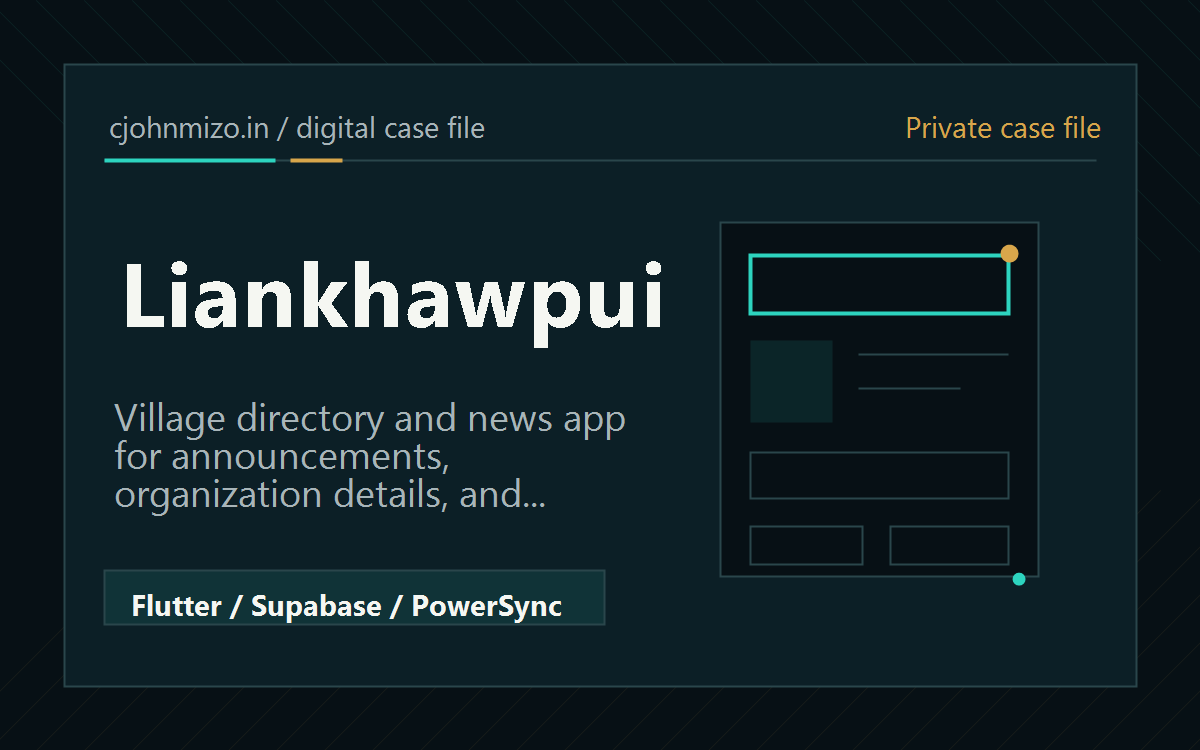
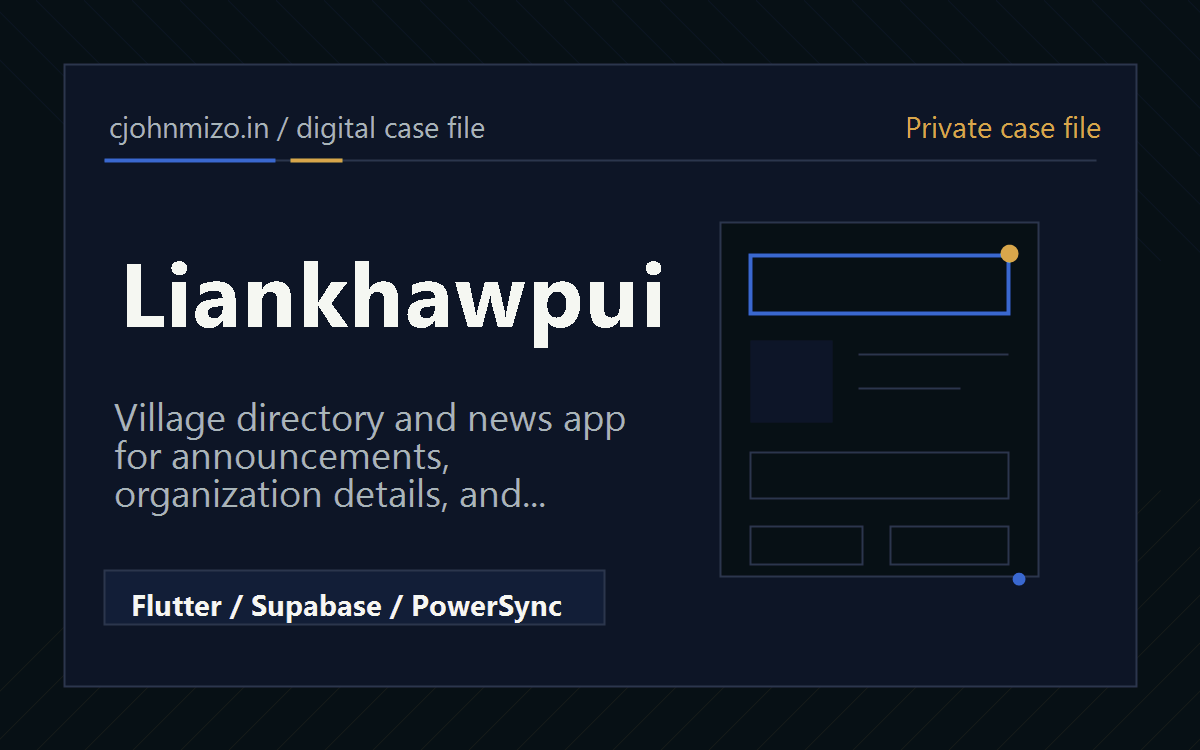
Switch portfolio palette to sapphire blue

Changed region(s): [[0.6167, 0.3373, 0.8633, 0.4293], [0.0925, 0.184, 0.2158, 0.2147], [0.8325, 0.7667, 0.8633, 0.7973]]

diff --git a/src/app/globals.css b/src/app/globals.css
@@ -24,21 +24,21 @@
 }
 
 :root {
-  --background: #071015;
+  --background: #070b12;
   --foreground: #f5f7f2;
-  --card: rgba(13, 28, 34, 0.84);
+  --card: rgba(13, 21, 32, 0.84);
   --card-foreground: #f5f7f2;
-  --popover: rgba(9, 19, 25, 0.98);
+  --popover: rgba(9, 14, 23, 0.98);
   --popover-foreground: #f5f7f2;
-  --primary: #2dd4bf;
-  --primary-foreground: #041311;
+  --primary: #7aa7ff;
+  --primary-foreground: #07101f;
   --secondary: #d8a64b;
   --secondary-foreground: #1b1205;
   --muted: rgba(203, 213, 225, 0.1);
-  --muted-foreground: #a8b5b9;
-  --border: rgba(180, 204, 208, 0.18);
-  --input: rgba(8, 20, 26, 0.74);
-  --ring: rgba(45, 212, 191, 0.5);
+  --muted-foreground: #adb8c7;
+  --border: rgba(174, 190, 210, 0.18);
+  --input: rgba(8, 14, 24, 0.74);
+  --ring: rgba(122, 167, 255, 0.5);
 }
 
 * {
@@ -53,7 +53,7 @@ body {
   background:
     radial-gradient(
       circle at 10% 4%,
-      rgba(45, 212, 191, 0.16),
+      rgba(122, 167, 255, 0.15),
       transparent 34rem
     ),
     radial-gradient(
@@ -61,7 +61,7 @@ body {
       rgba(216, 166, 75, 0.12),
       transparent 30rem
     ),
-    linear-gradient(180deg, #071015 0%, #0a171d 42%, #071015 100%);
+    linear-gradient(180deg, #070b12 0%, #0b111b 42%, #070b12 100%);
   color: var(--foreground);
   text-rendering: optimizeLegibility;
 }
@@ -73,7 +73,7 @@ body::before {
   pointer-events: none;
   content: "";
   background-image:
-    linear-gradient(120deg, rgba(45, 212, 191, 0.06) 1px, transparent 1px),
+    linear-gradient(120deg, rgba(122, 167, 255, 0.06) 1px, transparent 1px),
     linear-gradient(60deg, rgba(216, 166, 75, 0.06) 1px, transparent 1px);
   background-size: 84px 84px;
   mask-image: linear-gradient(180deg, rgba(0, 0, 0, 0.82), transparent 78%);
@@ -101,7 +101,7 @@ select {
 }
 
 ::selection {
-  background: rgba(45, 212, 191, 0.24);
+  background: rgba(122, 167, 255, 0.24);
   color: #ffffff;
 }
 
@@ -110,16 +110,16 @@ select {
 }
 
 ::-webkit-scrollbar-track {
-  background: #071015;
+  background: #070b12;
 }
 
 ::-webkit-scrollbar-thumb {
   background: linear-gradient(
     180deg,
-    rgba(45, 212, 191, 0.82),
+    rgba(122, 167, 255, 0.82),
     rgba(216, 166, 75, 0.72)
   );
-  border: 3px solid #071015;
+  border: 3px solid #070b12;
   border-radius: 999px;
 }
 
@@ -138,8 +138,8 @@ select {
     overflow: hidden;
     background: linear-gradient(
       145deg,
-      rgba(15, 38, 45, 0.86),
-      rgba(7, 16, 21, 0.72)
+      rgba(15, 27, 42, 0.86),
+      rgba(7, 11, 18, 0.72)
     );
     border: 1px solid var(--border);
     box-shadow:
@@ -153,8 +153,8 @@ select {
     overflow: hidden;
     background: linear-gradient(
       155deg,
-      rgba(13, 28, 34, 0.9),
-      rgba(8, 19, 24, 0.72)
+      rgba(13, 21, 32, 0.9),
+      rgba(8, 14, 24, 0.72)
     );
     border: 1px solid var(--border);
     box-shadow: 0 18px 54px rgba(0, 0, 0, 0.24);
@@ -174,7 +174,7 @@ select {
       135deg,
       rgba(255, 255, 255, 0.14),
       transparent 38%,
-      rgba(45, 212, 191, 0.08)
+      rgba(122, 167, 255, 0.08)
     );
     mix-blend-mode: screen;
   }
@@ -197,7 +197,7 @@ select {
     transform: translateY(-2px);
     box-shadow:
       0 24px 62px rgba(0, 0, 0, 0.36),
-      0 0 0 1px rgba(45, 212, 191, 0.18) inset;
+      0 0 0 1px rgba(122, 167, 255, 0.18) inset;
   }
 
   .system-visual {
@@ -226,8 +226,8 @@ select {
 
   .mizo-pattern {
     background-image:
-      linear-gradient(135deg, rgba(45, 212, 191, 0.12) 25%, transparent 25%),
-      linear-gradient(225deg, rgba(45, 212, 191, 0.12) 25%, transparent 25%),
+      linear-gradient(135deg, rgba(122, 167, 255, 0.12) 25%, transparent 25%),
+      linear-gradient(225deg, rgba(122, 167, 255, 0.12) 25%, transparent 25%),
       linear-gradient(45deg, rgba(216, 166, 75, 0.16) 25%, transparent 25%),
       linear-gradient(315deg, rgba(216, 166, 75, 0.16) 25%, transparent 25%);
     background-position:

diff --git a/src/app/opengraph-image.tsx b/src/app/opengraph-image.tsx
@@ -18,7 +18,7 @@ export default function OpenGraphImage() {
         justifyContent: "space-between",
         padding: 64,
         background:
-          "radial-gradient(circle at 12% 8%, rgba(45,212,191,0.32), transparent 34%), radial-gradient(circle at 88% 20%, rgba(216,166,75,0.24), transparent 28%), linear-gradient(135deg, #071015 0%, #0d2027 54%, #071015 100%)",
+          "radial-gradient(circle at 12% 8%, rgba(122,167,255,0.32), transparent 34%), radial-gradient(circle at 88% 20%, rgba(216,166,75,0.24), transparent 28%), linear-gradient(135deg, #070b12 0%, #101827 54%, #070b12 100%)",
         color: "#f5f7f2",
         border: "1px solid rgba(180,204,208,0.24)",
       }}
@@ -30,7 +30,7 @@ export default function OpenGraphImage() {
           alignItems: "center",
           fontSize: 28,
           fontWeight: 700,
-          color: "#2dd4bf",
+          color: "#7aa7ff",
         }}
       >
         <span>C. John Remthang</span>

diff --git a/src/components/ui/button.tsx b/src/components/ui/button.tsx
@@ -10,7 +10,7 @@ const buttonVariants = cva(
     variants: {
       variant: {
         default:
-          "bg-primary px-5 py-3 text-primary-foreground shadow-[0_14px_34px_rgba(45,212,191,0.24)] hover:-translate-y-0.5 hover:bg-teal-300",
+          "bg-primary px-5 py-3 text-primary-foreground shadow-[0_14px_34px_rgba(122,167,255,0.24)] hover:-translate-y-0.5 hover:bg-blue-300",
         outline:
           "border border-border bg-card/70 px-5 py-3 text-foreground backdrop-blur hover:-translate-y-0.5 hover:border-primary/50 hover:bg-muted",
         ghost:

diff --git a/src/components/portfolio/project-card.tsx b/src/components/portfolio/project-card.tsx
@@ -51,7 +51,7 @@ export function ProjectCard({
               {project.category}
             </span>
           </div>
-          <div className="pointer-events-none absolute inset-0 bg-[linear-gradient(120deg,rgba(255,255,255,0.14),transparent_34%,rgba(45,212,191,0.08)_72%,transparent)]" />
+          <div className="pointer-events-none absolute inset-0 bg-[linear-gradient(120deg,rgba(255,255,255,0.14),transparent_34%,rgba(122,167,255,0.08)_72%,transparent)]" />
         </div>
       </div>
       <CardContent className="flex flex-1 flex-col gap-5 p-5">

diff --git a/src/lib/portfolio/seeds.ts b/src/lib/portfolio/seeds.ts
@@ -47,7 +47,7 @@ export const portfolioSeed: PortfolioSnapshot = {
       "Personal portfolio of C. John Remthang, a Mizoram-based developer building practical websites, LMS platforms, dashboards, mobile apps, and digital systems for schools, NGOs, businesses, and communities.",
     footerNote:
       "Building practical digital systems for schools, NGOs, businesses, and communities.",
-    primaryAccent: "#2dd4bf",
+    primaryAccent: "#7aa7ff",
     secondaryAccent: "#d8a64b",
   },
   featuredProjects: [],

diff --git a/src/components/portfolio/featured-projects-section.tsx b/src/components/portfolio/featured-projects-section.tsx
@@ -23,7 +23,7 @@ export function FeaturedProjectsSection({
             />
             <Link
               href="/projects"
-              className="text-primary inline-flex items-center text-sm font-semibold transition hover:text-teal-200"
+              className="text-primary inline-flex items-center text-sm font-semibold transition hover:text-blue-200"
             >
               View all projects <ArrowRight className="ml-2 h-4 w-4" />
             </Link>

diff --git a/src/app/manifest.ts b/src/app/manifest.ts
@@ -8,8 +8,8 @@ export default function manifest(): MetadataRoute.Manifest {
       "Portfolio of C. John Remthang, also known online as C. John, CJohn Mizo, and cjohnmizo.",
     start_url: "/",
     display: "standalone",
-    background_color: "#071015",
-    theme_color: "#2dd4bf",
+    background_color: "#070b12",
+    theme_color: "#7aa7ff",
     icons: [
       {
         src: "/brand/cjohnmizo-favicon.png",
